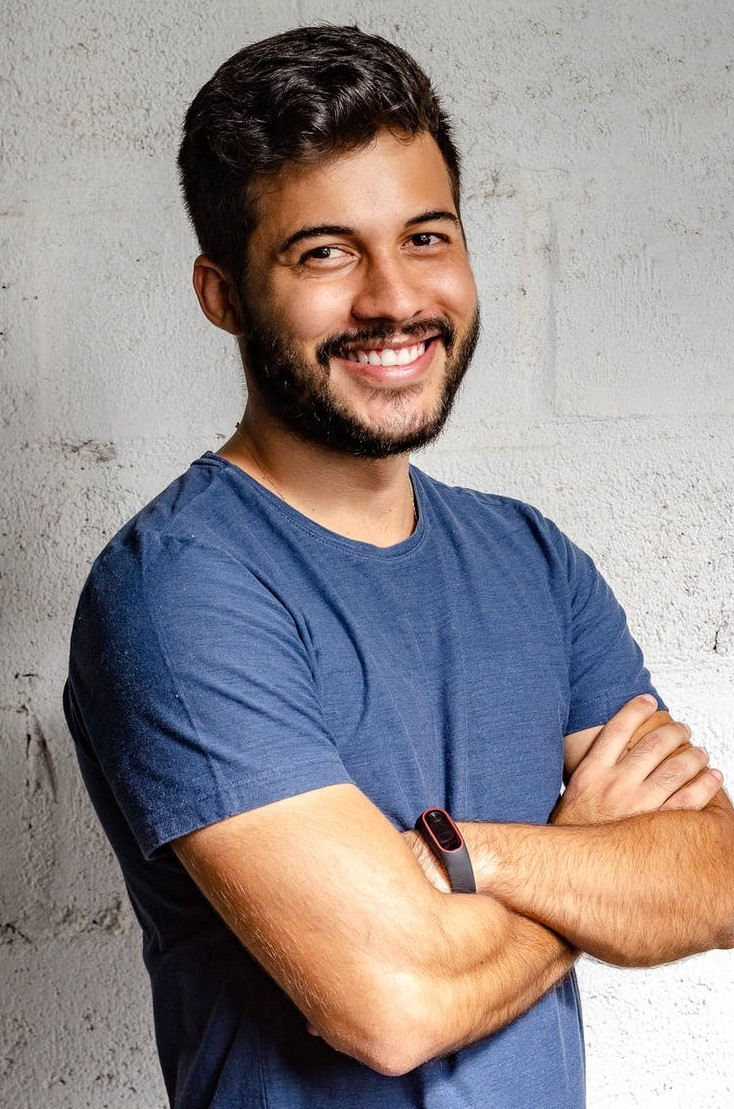
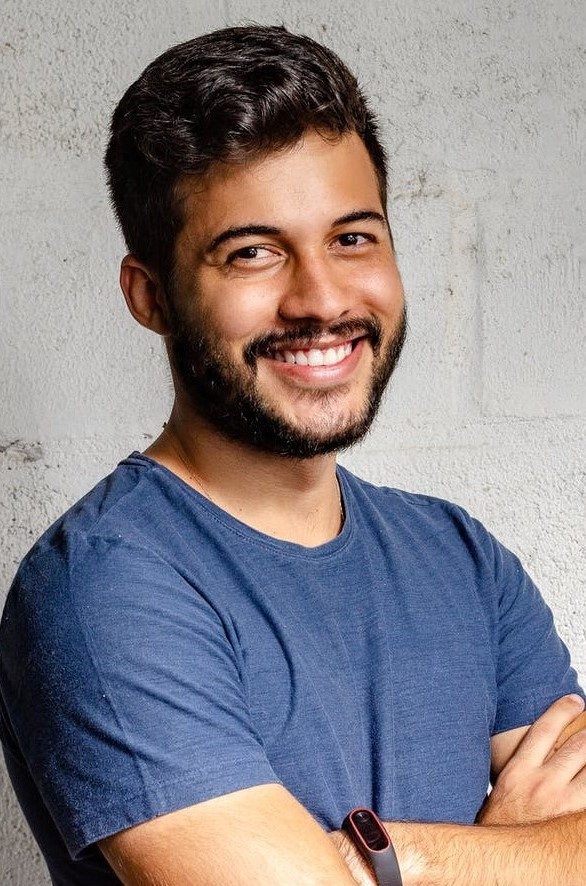
Correções no doc de personas

diff --git a/docs/Entrega_I/Elicitacao/Tecnicas/personas.md b/docs/Entrega_I/Elicitacao/Tecnicas/personas.md
@@ -12,7 +12,7 @@ As personas são um grupo de personagens fictícios criados com o objetivo de si
 
 |<h3>Persona Primária||
 |:-|:-|
-| Foto | <img src='../../../images/persona1.jpeg' width=170px height=auto> |
+| Foto | <img src='../../../images/persona1.jpeg' width=150px height=auto> |
 | Nome | Pedro Oliveira |
 | Idade | 30 anos |
 | Escolaridade | Ensino superior completo |
@@ -23,7 +23,7 @@ As personas são um grupo de personagens fictícios criados com o objetivo de si
 
 |<h3>Persona Secundária||
 |:-|:-|
-| Foto | <img src='../../../images/persona2.jpeg' width=170px height=auto> |
+| Foto | <img src='../../../images/persona2.jpeg' width=150px height=auto> |
 | Nome | Ana de Souza |
 | Idade | 32 anos |
 | Escolaridade | Ensino superior completo |
@@ -34,7 +34,7 @@ As personas são um grupo de personagens fictícios criados com o objetivo de si
 
 |<h3>Persona Terciária||
 |:-|:-|
-| Foto | <img src='../../../images/persona3.jpeg' width=170px height=auto> |
+| Foto | <img src='../../../images/persona3.jpeg' width=140px height=auto> |
 | Nome | Mariana Freitas |
 | Idade | 27 anos |
 | Escolaridade | Ensino médio completo |
